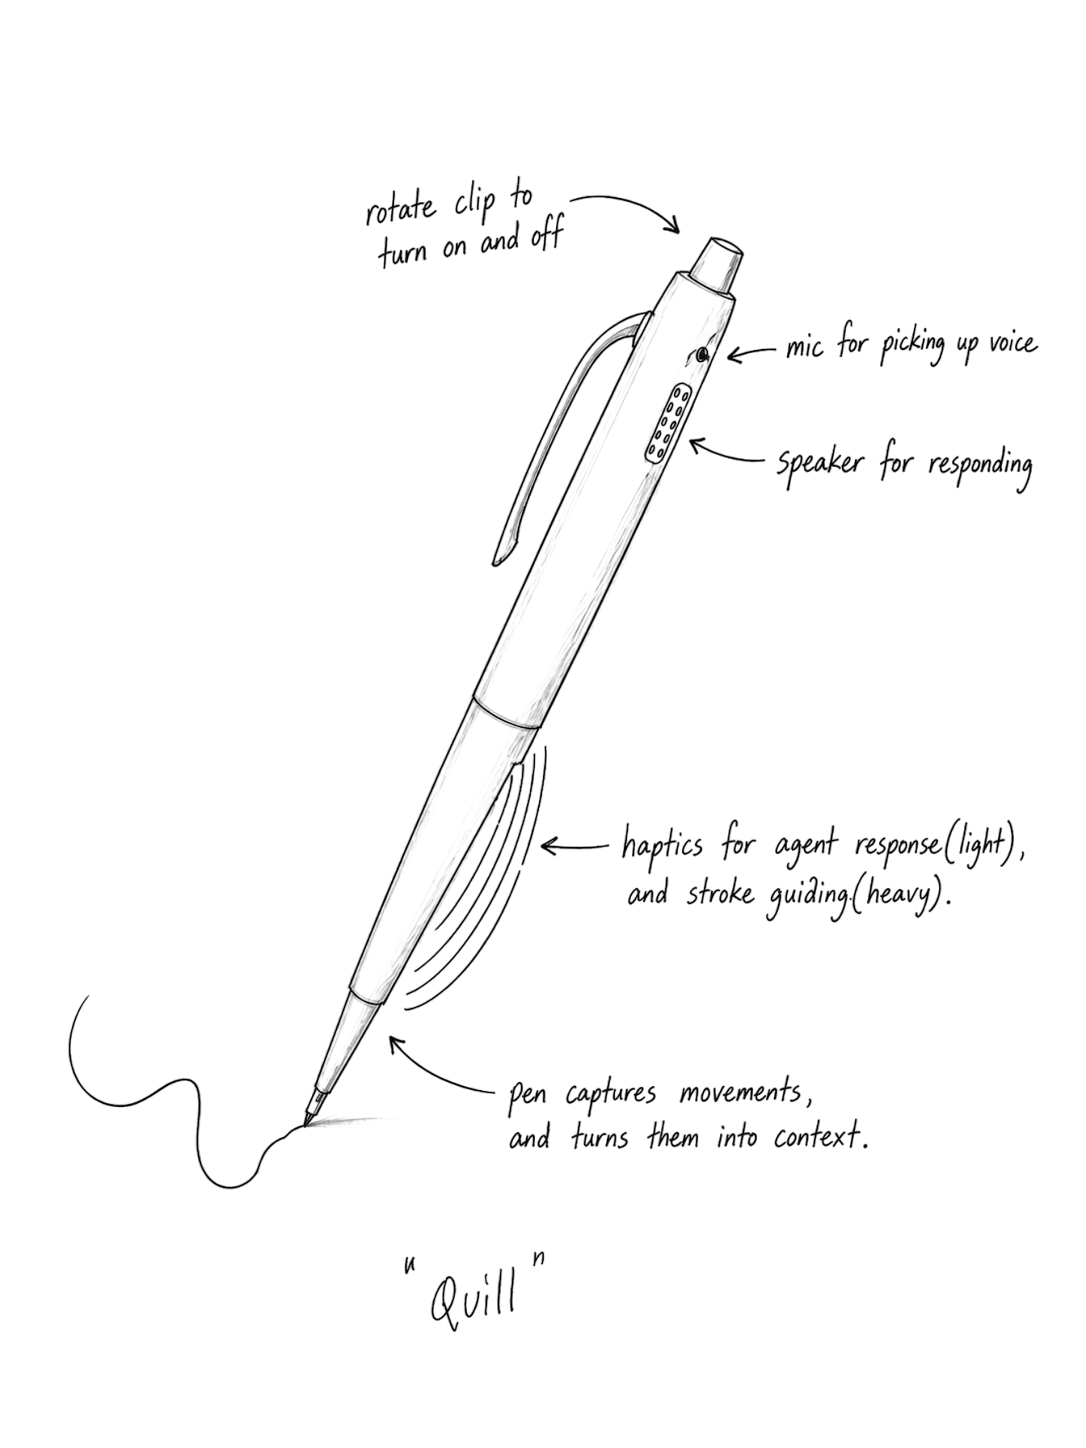
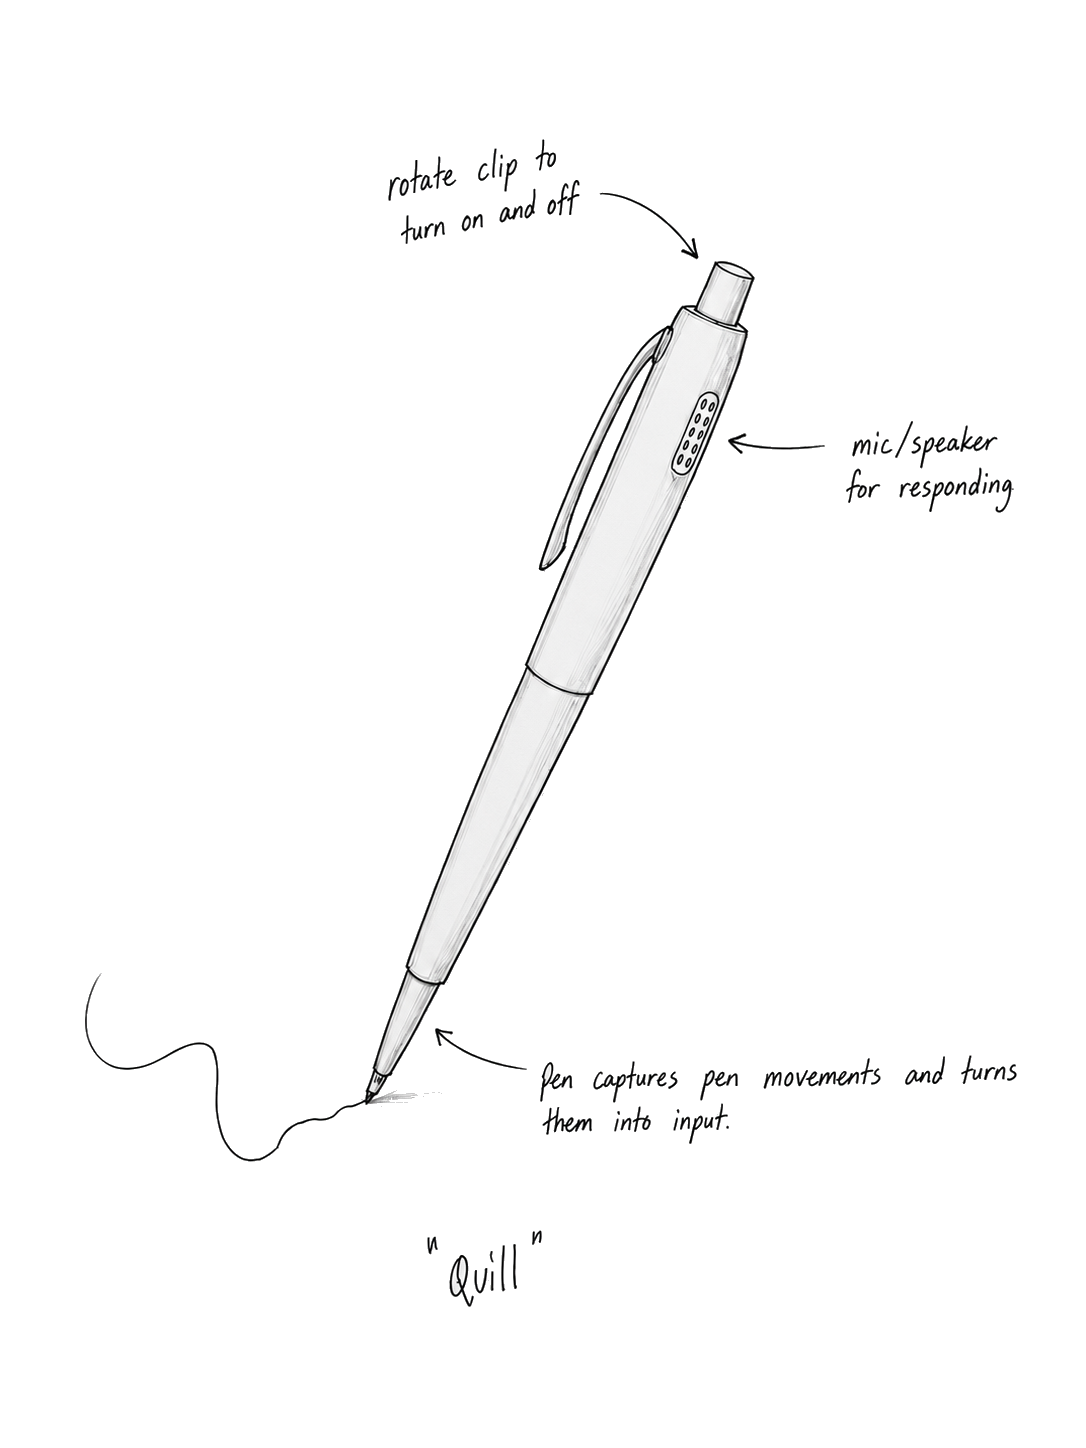
Switch era content to era devices 2; notebook writing -> Reenie Beanie text
- /era and /era-notebook now source era/era devices 2.md
- Notebook: device sketches as (knocked-out, transparent) images; writing
  rendered as real text in Reenie Beanie (parsed from the md)
- Add Reenie Beanie font; remove now-unused handwriting-image assets

diff --git a/src/pages/Era.tsx b/src/pages/Era.tsx
@@ -63,13 +63,11 @@ function playPageTurn() {
   }
 }
 
-// Vite content-hashes these on import, so every artwork update gets a fresh URL
-// (no stale CDN/browser cache — the root cause of "I don't see the new image").
-import introImg from "../era-art/intro.png";
+// device sketches stay as images (transparent, content-hashed)
 import quillDeviceImg from "../era-art/quill-device.png";
-import quillWritingImg from "../era-art/quill-writing.png";
 import tigerDeviceImg from "../era-art/tiger-device.png";
-import tigerWritingImg from "../era-art/tiger-writing.png";
+// notebook writing is real text now — rendered live from the .md in a handwriting font
+import rawMd from "@era-content/era/era devices 2.md?raw";
 
 /* Engraved corner flourish — drawn once, mirrored into all four corners.
    Loosely inspired by the LIFE "Noble Note" cover. */
@@ -117,11 +115,33 @@ const COVER: ReactNode = (
     </div>
   </>
 );
-const INTRO = <Art src={introImg} alt="intro — over the years" />;
+// split the .md into intro / quill / tiger writing, as plain paragraphs
+function paragraphs(block: string): string[] {
+  return block
+    .replace(/!\[\[[^\]]+\]\]/g, "") // drop image embeds
+    .split(/\n{2,}/) // blank line = paragraph break
+    .map((p) => p.replace(/\s*\n\s*/g, " ").trim())
+    .filter(Boolean);
+}
+const _quillSplit = rawMd.split(/^###\s+Quill\s*$/im);
+const _tigerSplit = (_quillSplit[1] || "").split(/^###\s+Tiger\s*$/im);
+const INTRO_PARAS = paragraphs(_quillSplit[0] || "");
+const QUILL_PARAS = paragraphs(_tigerSplit[0] || "");
+const TIGER_PARAS = paragraphs(_tigerSplit[1] || "");
+
+const Writing = ({ paras }: { paras: string[] }) => (
+  <div className="era-writing">
+    {paras.map((p, i) => (
+      <p key={i}>{p}</p>
+    ))}
+  </div>
+);
+
+const INTRO = <Writing paras={INTRO_PARAS} />;
 const QUILL_DEVICE = <Art src={quillDeviceImg} alt="quill device sketch" />;
-const QUILL_WRITING = <Art src={quillWritingImg} alt="quill writing" />;
+const QUILL_WRITING = <Writing paras={QUILL_PARAS} />;
 const TIGER_DEVICE = <Art src={tigerDeviceImg} alt="tiger device sketch" />;
-const TIGER_WRITING = <Art src={tigerWritingImg} alt="tiger writing" />;
+const TIGER_WRITING = <Writing paras={TIGER_PARAS} />;
 
 type Leaf = { front: ReactNode; back: ReactNode; frontClass: string; backClass: string };
 

diff --git a/src/pages/Era.css b/src/pages/Era.css
@@ -228,6 +228,25 @@
   color: #2a2622;
 }
 
+/* --- notebook writing (real text in a handwriting font) -------------------- */
+.era-writing {
+  position: absolute;
+  inset: 7% 9% 8% 10%;
+  overflow-y: auto;
+  font-family: "Reenie Beanie", var(--font-serif);
+  color: #2a2622;
+  font-size: clamp(1.35rem, 4vw, 2.05rem);
+  line-height: 1.15;
+  scrollbar-width: thin;
+  scrollbar-color: rgba(60, 50, 40, 0.28) transparent;
+}
+.era-writing::-webkit-scrollbar { width: 5px; }
+.era-writing::-webkit-scrollbar-thumb {
+  background: rgba(60, 50, 40, 0.28);
+  border-radius: 3px;
+}
+.era-writing p { margin: 0 0 0.55em; }
+
 /* --- transparent page artwork (one PNG per page, on the solid paper) --------
    Full-bleed: each PNG carries its own internal margins, so it fills the page
    edge-to-edge and object-fit keeps its aspect without distortion. */

diff --git a/index.html b/index.html
@@ -16,7 +16,7 @@
     <link rel="preload" as="font" type="font/woff2" href="/fonts/InstrumentSerif.woff2" crossorigin />
     <link rel="preconnect" href="https://fonts.googleapis.com" />
     <link rel="preconnect" href="https://fonts.gstatic.com" crossorigin />
-    <link href="https://fonts.googleapis.com/css2?family=Caveat:wght@400;500;600;700&display=swap" rel="stylesheet" />
+    <link href="https://fonts.googleapis.com/css2?family=Reenie+Beanie&display=swap" rel="stylesheet" />
   </head>
   <body>
     <div id="root"></div>

diff --git a/src/pages/EraDevices.tsx b/src/pages/EraDevices.tsx
@@ -8,7 +8,7 @@ import MarkdownLink from "../components/MarkdownLink";
 import "./EraDevices.css";
 
 // live content — editing this .md and redeploying updates the page
-import raw from "@era-content/era devices.md?raw";
+import raw from "@era-content/era/era devices 2.md?raw";
 
 // resolve Obsidian image embeds against the vault's attachment folder by
 // basename, so swapping/renaming images never needs a code change